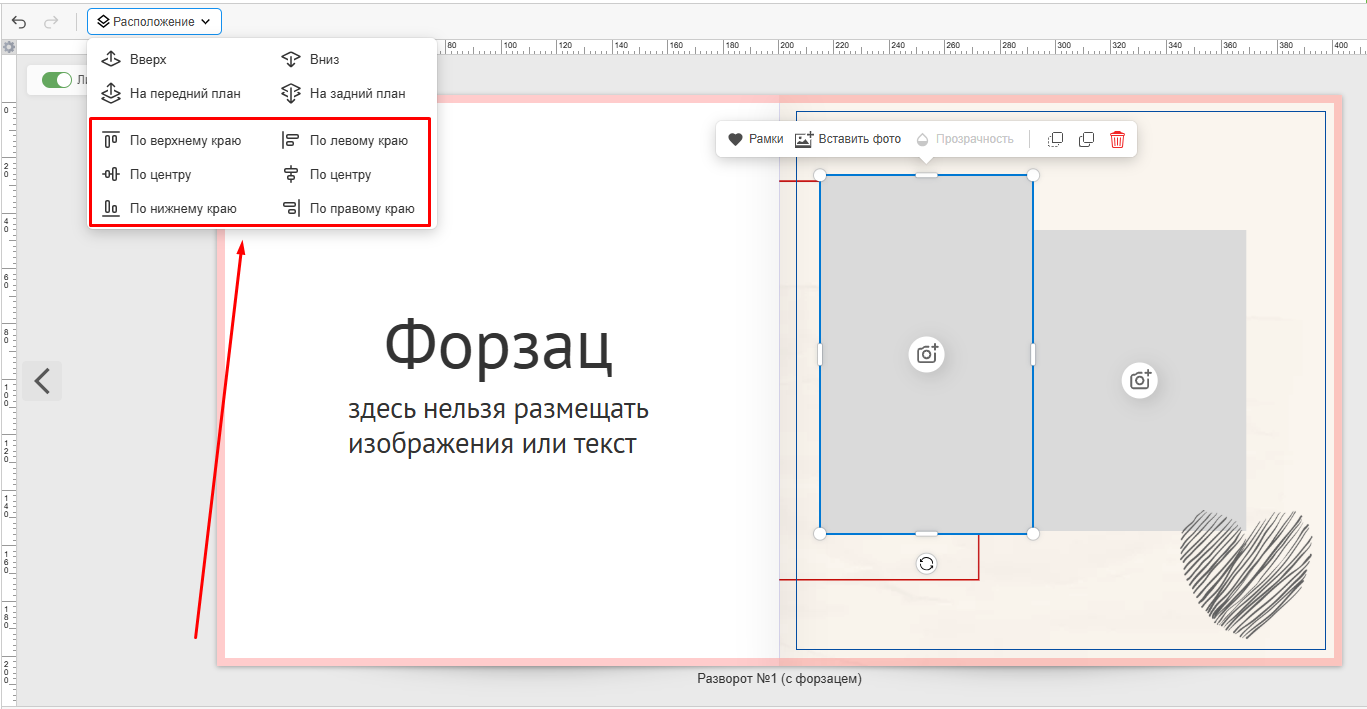
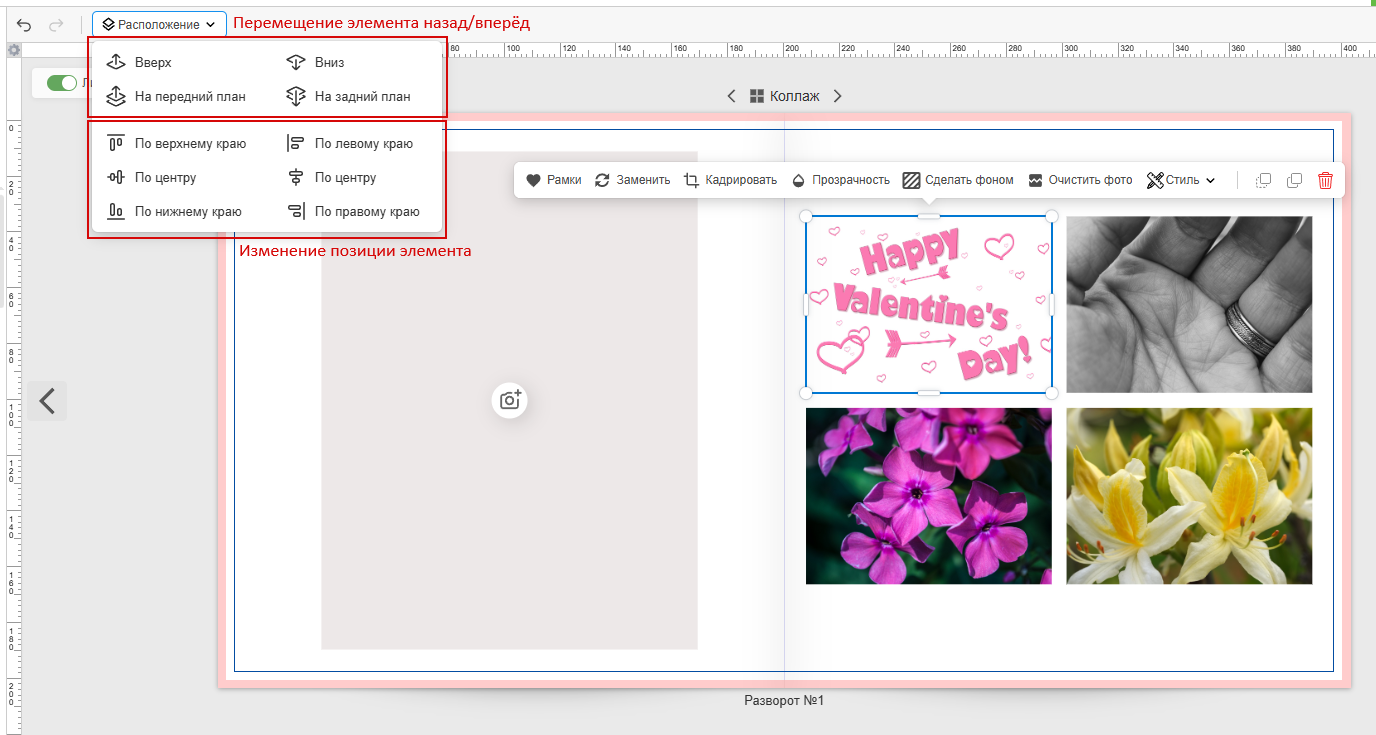
add image context

diff --git a/docs/dev/events.md b/docs/dev/events.md
@@ -189,6 +189,7 @@ sidebar_position: 7
 * Контексты указывают, как или откуда было инициировано событие. Они помогают понять, каким способом пользователь взаимодействует с приложением.
     + __Short Cut (Горячая клавиша)__: Действие выполнено с помощью клавиатурной комбинации.
     + __Context Menu (Контекстное меню)__: Действие выбрано из контекстного меню (например, правый клик).
+![](../_media/dev/event17.png)
     + __Context Panel (Контекстная панель)__: Действие инициировано из панели, появляющейся над элементом.
     + __Top Panel (Верхняя панель)__: Действие выполнено из верхней панели интерфейса.
     + __Side Panel (Боковая панель)__: Действие выполнено из боковой панели интерфейса.
@@ -202,11 +203,12 @@ sidebar_position: 7
     + __None (Нет контекста)__: Контекст не применим или не указан.
     + __Placeholder Swap (Обмен местами плейсхолдеров)__: Действие связано с обменом местами плейсхолдеров.
     + __Layer Position (Позиция слоя)__: Действие связано с изменением порядка слоев.
-![](../_media/dev/event01.png)
+![](../_media/dev/event16.png)
     + __DropDown (Выпадающее меню)__: Действие выбрано из выпадающего меню.
     + __Element Control (Управление элементом)__: Действие инициировано из элементов управления конкретным элементом, например:
 ![](../_media/dev/event05.png)
-    + __Navigator (Навигатор)__: Действие инициировано из навигатора.
+    + __Navigator (Навигатор)__: Действие инициировано из навигатора (менеджер разворотов).
+![](../_media/dev/event18.png)
     + __Navigator DropDown (Выпадающее меню навигатора)__: Действие выбрано из выпадающего меню в навигаторе.
     + __Navigator DragNDrop (Перетаскивание в навигаторе)__: Действие инициировано перетаскиванием в навигаторе.
     + __SurfaceControl (Управление поверхностью)__: Действие инициировано из элементов управления поверхностью.
